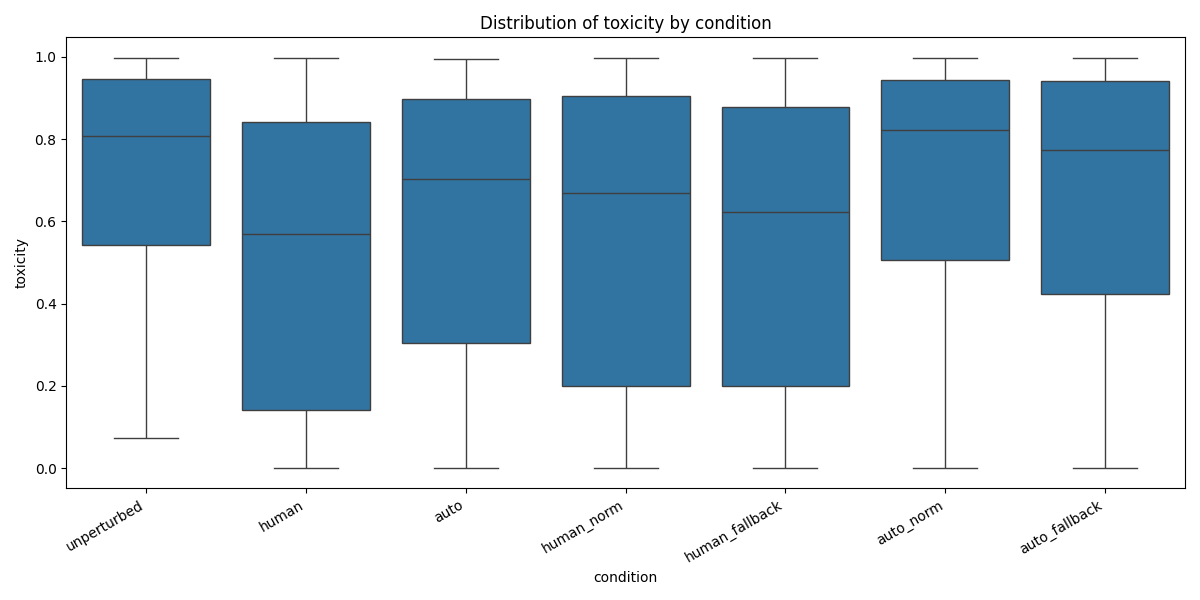
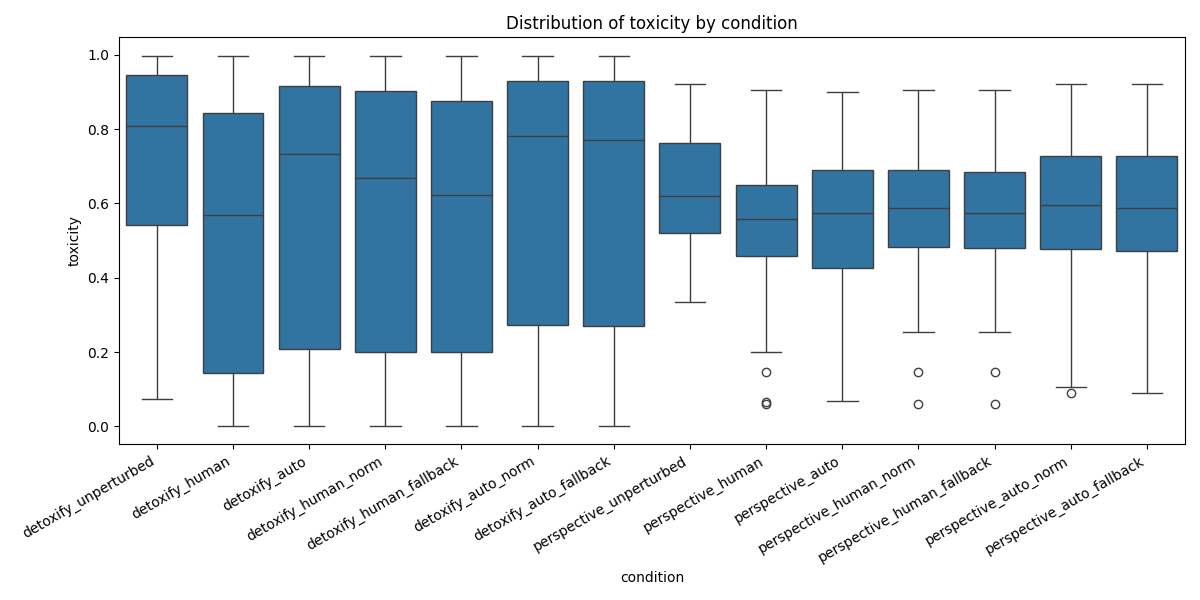
added perspective to box plot

diff --git a/run.py b/run.py
@@ -163,19 +163,36 @@ def main():
     print("Generating box plot...")
 
     raw_scores = {
-        "unperturbed": clean_scores,
-        "human": human_scores,
-        "auto": auto_scores,
-        "human_norm": human_norm_scores,
-        "human_fallback": human_fallback_scores,
-        "auto_norm": auto_norm_scores,
-        "auto_fallback": auto_fallback_scores
+        "detoxify_unperturbed": clean_scores,
+        "detoxify_human": human_scores,
+        "detoxify_auto": auto_scores,
+        "detoxify_human_norm": human_norm_scores,
+        "detoxify_human_fallback": human_fallback_scores,
+        "detoxify_auto_norm": auto_norm_scores,
+        "detoxify_auto_fallback": auto_fallback_scores,
+
+        "perspective_unperturbed": persp_clean if PERSPECTIVE else None,
+        "perspective_human": persp_human if PERSPECTIVE else None,
+        "perspective_auto": persp_auto if PERSPECTIVE else None,
+        "perspective_human_norm": persp_human_norm if PERSPECTIVE else None,
+        "perspective_human_fallback": persp_human_fallback if PERSPECTIVE else None,
+        "perspective_auto_norm": persp_auto_norm if PERSPECTIVE else None,
+        "perspective_auto_fallback": persp_auto_fallback if PERSPECTIVE else None,
     }
+
     plot_box(raw_scores, metric="toxicity", save_path="results_box.png")
 
     print("Generating scatter chart to compare between detoxify and perspective...")
     plot_scatter(
-        scores_x=raw_scores,
+        scores_x={
+            "unperturbed": clean_scores,
+            "human": human_scores,
+            "auto": auto_scores,
+            "human_norm": human_norm_scores,
+            "human_fallback": human_fallback_scores,
+            "auto_norm": auto_norm_scores,
+            "auto_fallback": auto_fallback_scores,
+        },
         scores_y={
             "unperturbed": persp_clean,
             "human": persp_human,
